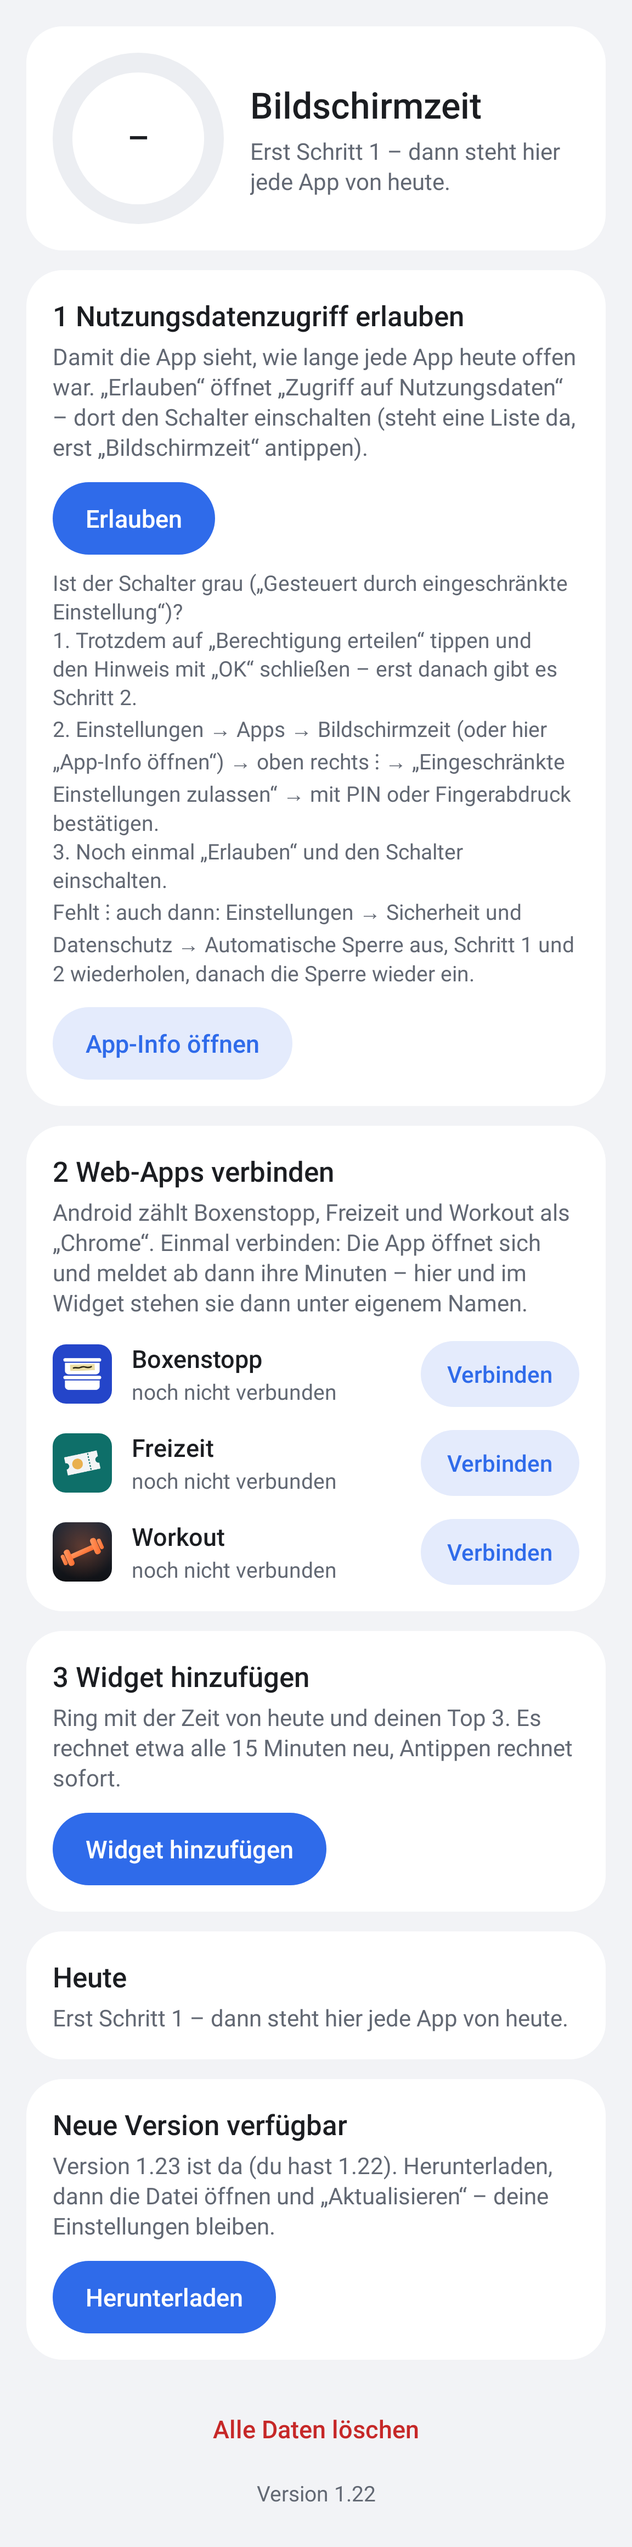
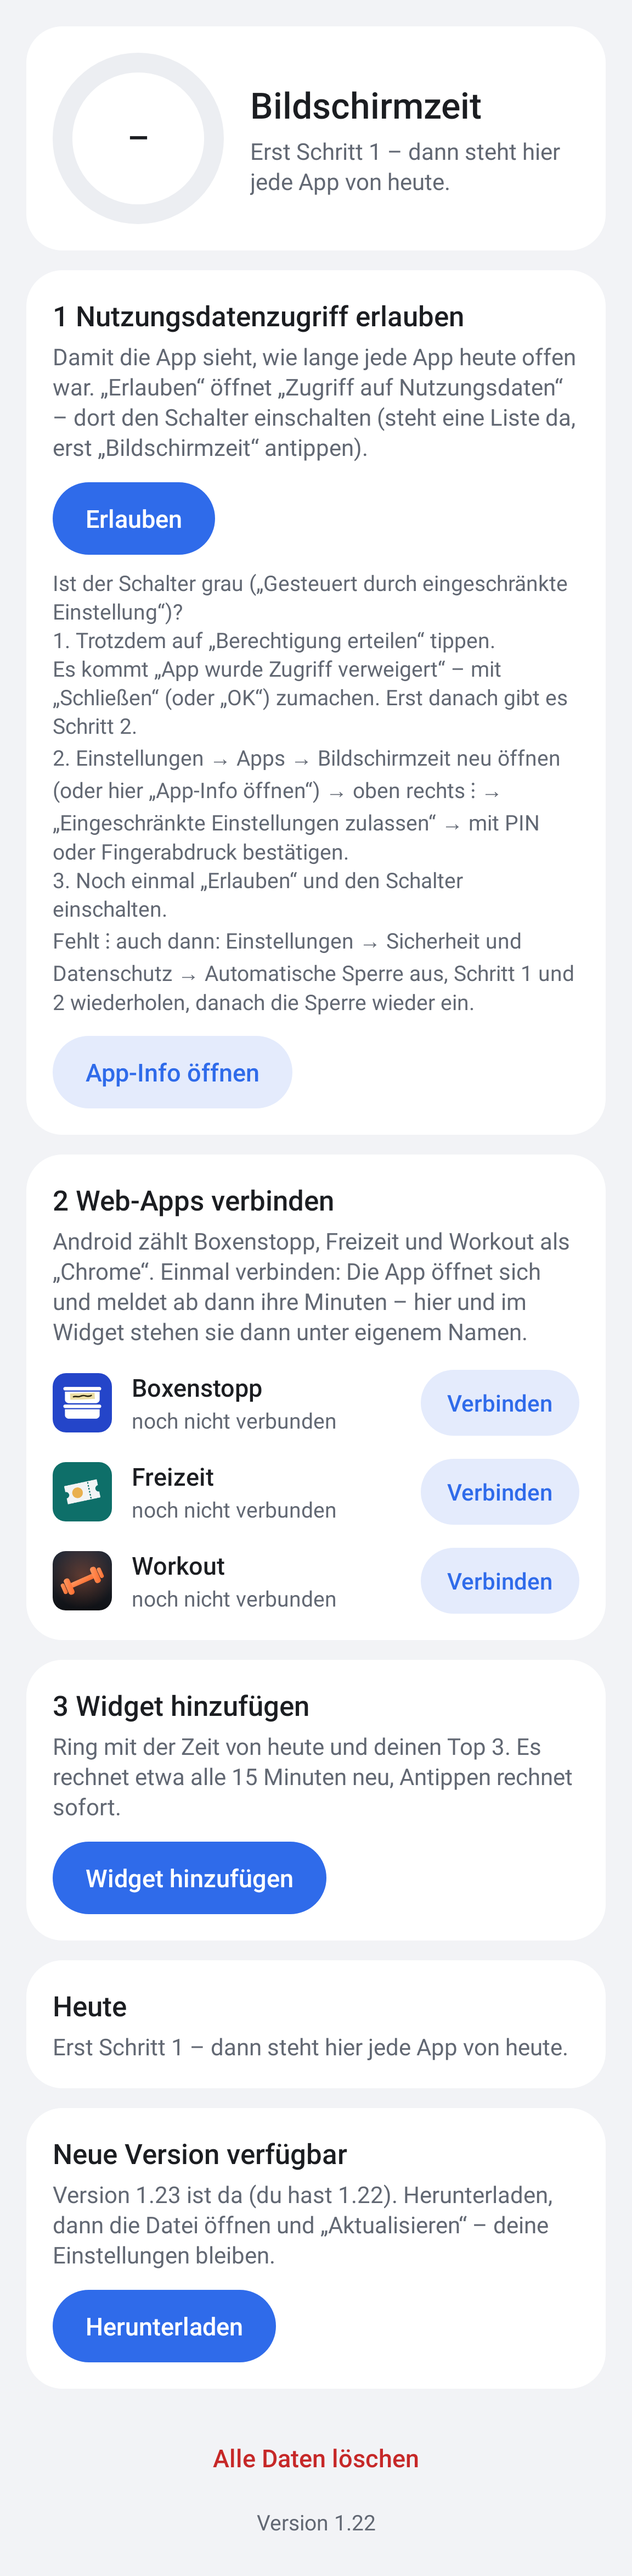
Hinweis wie auf dem S24: „App wurde Zugriff verweigert“ → „Schließen“
One UI 8 zeigt beim Antippen des grauen Schalters nicht „Eingeschränkte
Einstellung … OK“, sondern „App wurde Zugriff verweigert … Informationen
dazu, wie du den Zugriff erlaubst“ mit „Schließen“ (Tobis Screenshot,
15.11., 08:39). Schritt 1 des Hinweises nennt jetzt diesen Text, Schritt 2
sagt, die App-Info neu zu öffnen. AppVorschauTest und README nachgezogen.

Claude-Session: https://claude.ai/code/session_01T7EkPKmbwzuumuawqyKHqq

diff --git a/android/app/src/test/kotlin/de/finanzdienste/bildschirmzeit/AppVorschauTest.kt b/android/app/src/test/kotlin/de/finanzdienste/bildschirmzeit/AppVorschauTest.kt
@@ -100,10 +100,11 @@ class AppVorschauTest {
         assertEquals(View.VISIBLE, aktivitaet.findViewById<View>(R.id.app_info).visibility)
         val text = hinweis.text.toString()
         val antippen = text.indexOf("Trotzdem auf „Berechtigung erteilen“ tippen")
-        val ok = text.indexOf("„OK“")
+        // So heißt der Hinweis auf Tobis S24 (One UI 8, 15.11.): „App wurde Zugriff verweigert“, Knopf „Schließen“.
+        val ok = text.indexOf("„App wurde Zugriff verweigert“ – mit „Schließen“")
         val menue = text.indexOf("oben rechts ⋮ → „Eingeschränkte Einstellungen zulassen“")
         assertTrue("erst den grauen Schalter antippen: $text", antippen >= 0)
-        assertTrue("den Hinweis mit OK schließen: $text", ok > antippen)
+        assertTrue("den Hinweis „App wurde Zugriff verweigert“ schließen: $text", ok > antippen)
         assertTrue("danach erst das Menü in der App-Info: $text", menue > ok)
         assertTrue("„Gesteuert durch eingeschränkte Einstellung“ – so steht es auf dem Handy: $text", text.contains("Gesteuert durch eingeschränkte Einstellung"))
         // Tobis S24 (15.11., 08:24): auch danach kein ⋮ – Samsungs Automatische Sperre war wieder an.

diff --git a/README.md b/README.md
@@ -56,9 +56,11 @@ Einmal, alles am Handy:
    die Seite „Zugriff auf Nutzungsdaten“ der App (auf dem S24 so gesehen) →
    Schalter ein → zurück. Ist der Schalter grau („Gesteuert durch
    eingeschränkte Einstellung“ – so bei einer APK aus Chrome):
-   1. Trotzdem auf „Berechtigung erteilen“ tippen, den Hinweis „Eingeschränkte
-      Einstellung“ mit „OK“ schließen. Erst danach hat die App-Info oben
-      rechts ⋮ – vorher fehlt es ganz (Tobis Screenshot vom 15.11.).
+   1. Trotzdem auf „Berechtigung erteilen“ tippen. Auf dem S24 (One UI 8) kommt
+      „App wurde Zugriff verweigert … Informationen dazu, wie du den Zugriff
+      erlaubst“ → „Schließen“ (auf anderen Geräten „Eingeschränkte
+      Einstellung“ → „OK“). Erst danach hat die App-Info oben rechts ⋮ –
+      vorher fehlt es ganz (Tobis Screenshots vom 15.11.).
    2. Die App-Info frisch öffnen: Einstellungen → Apps → Bildschirmzeit (oder
       in der App „App-Info öffnen“) → oben rechts ⋮ → „Eingeschränkte
       Einstellungen zulassen“ → mit PIN oder Fingerabdruck bestätigen.
